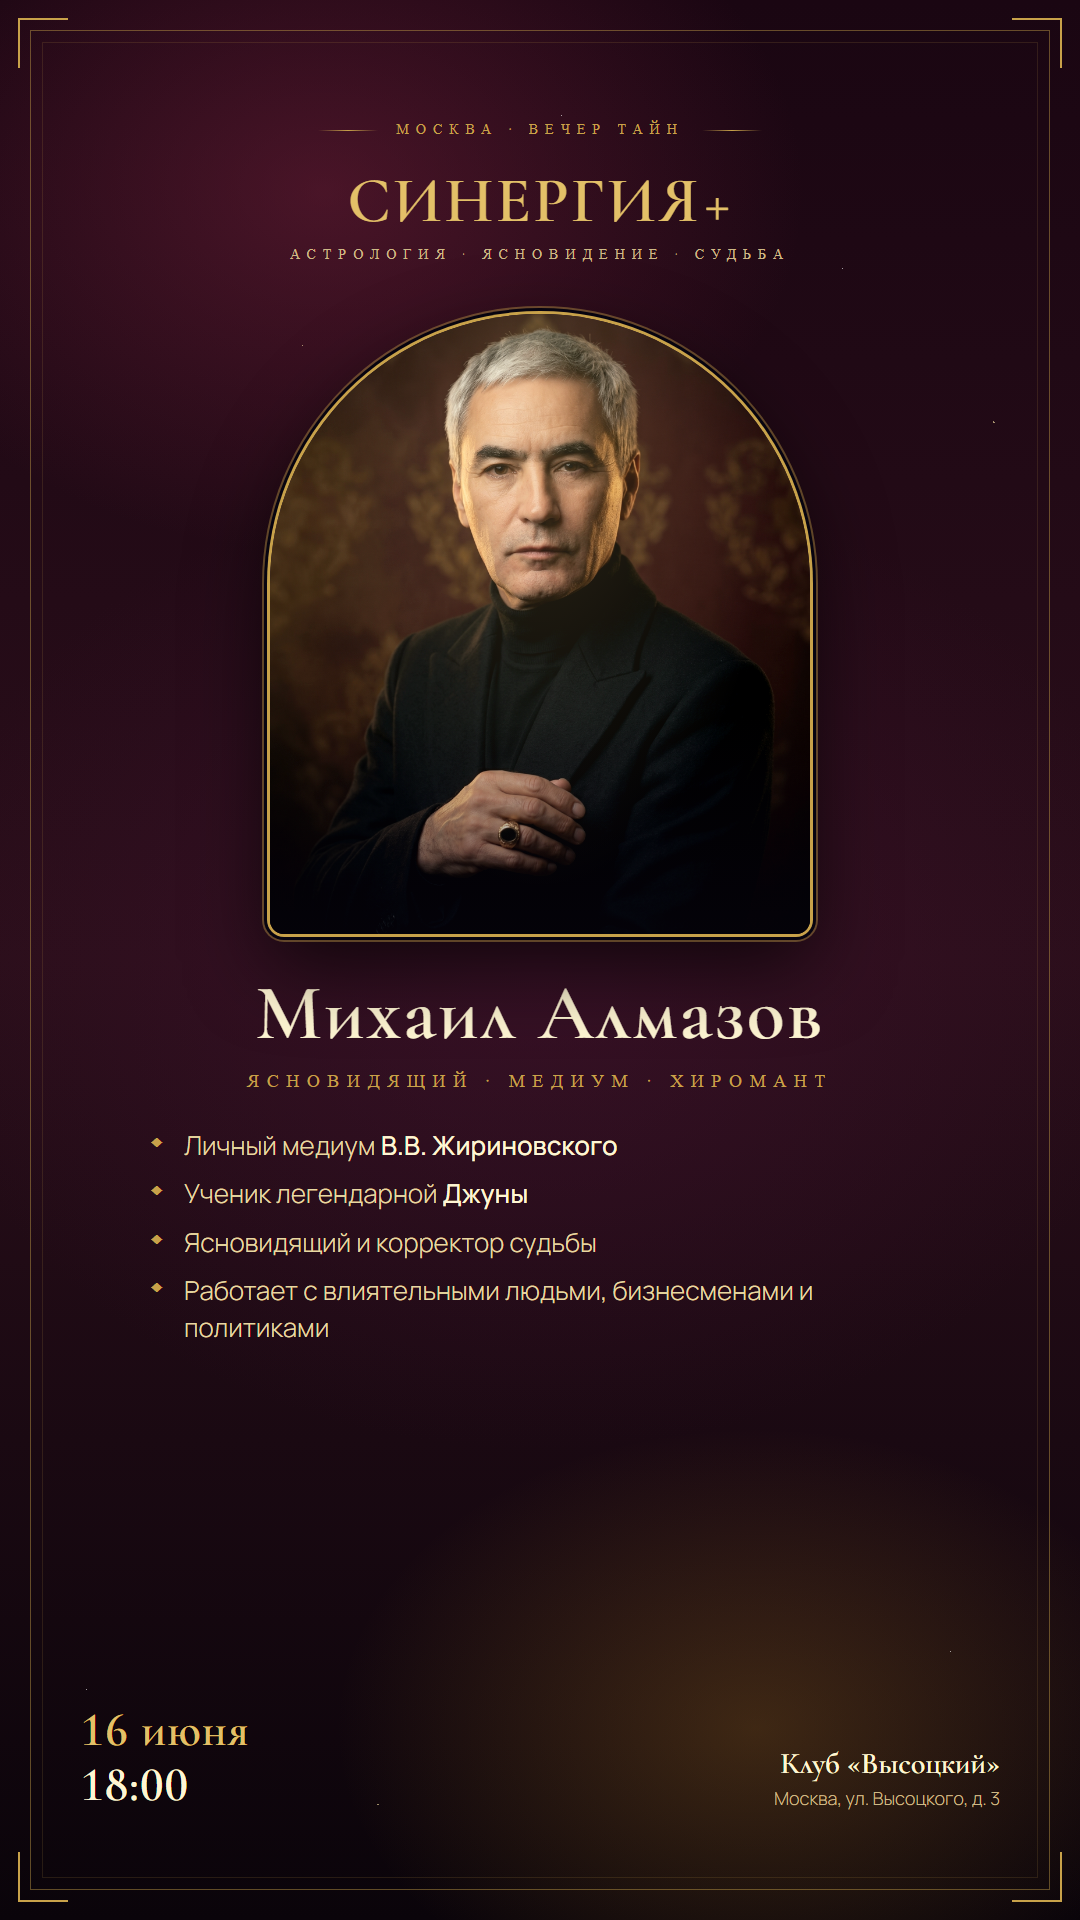
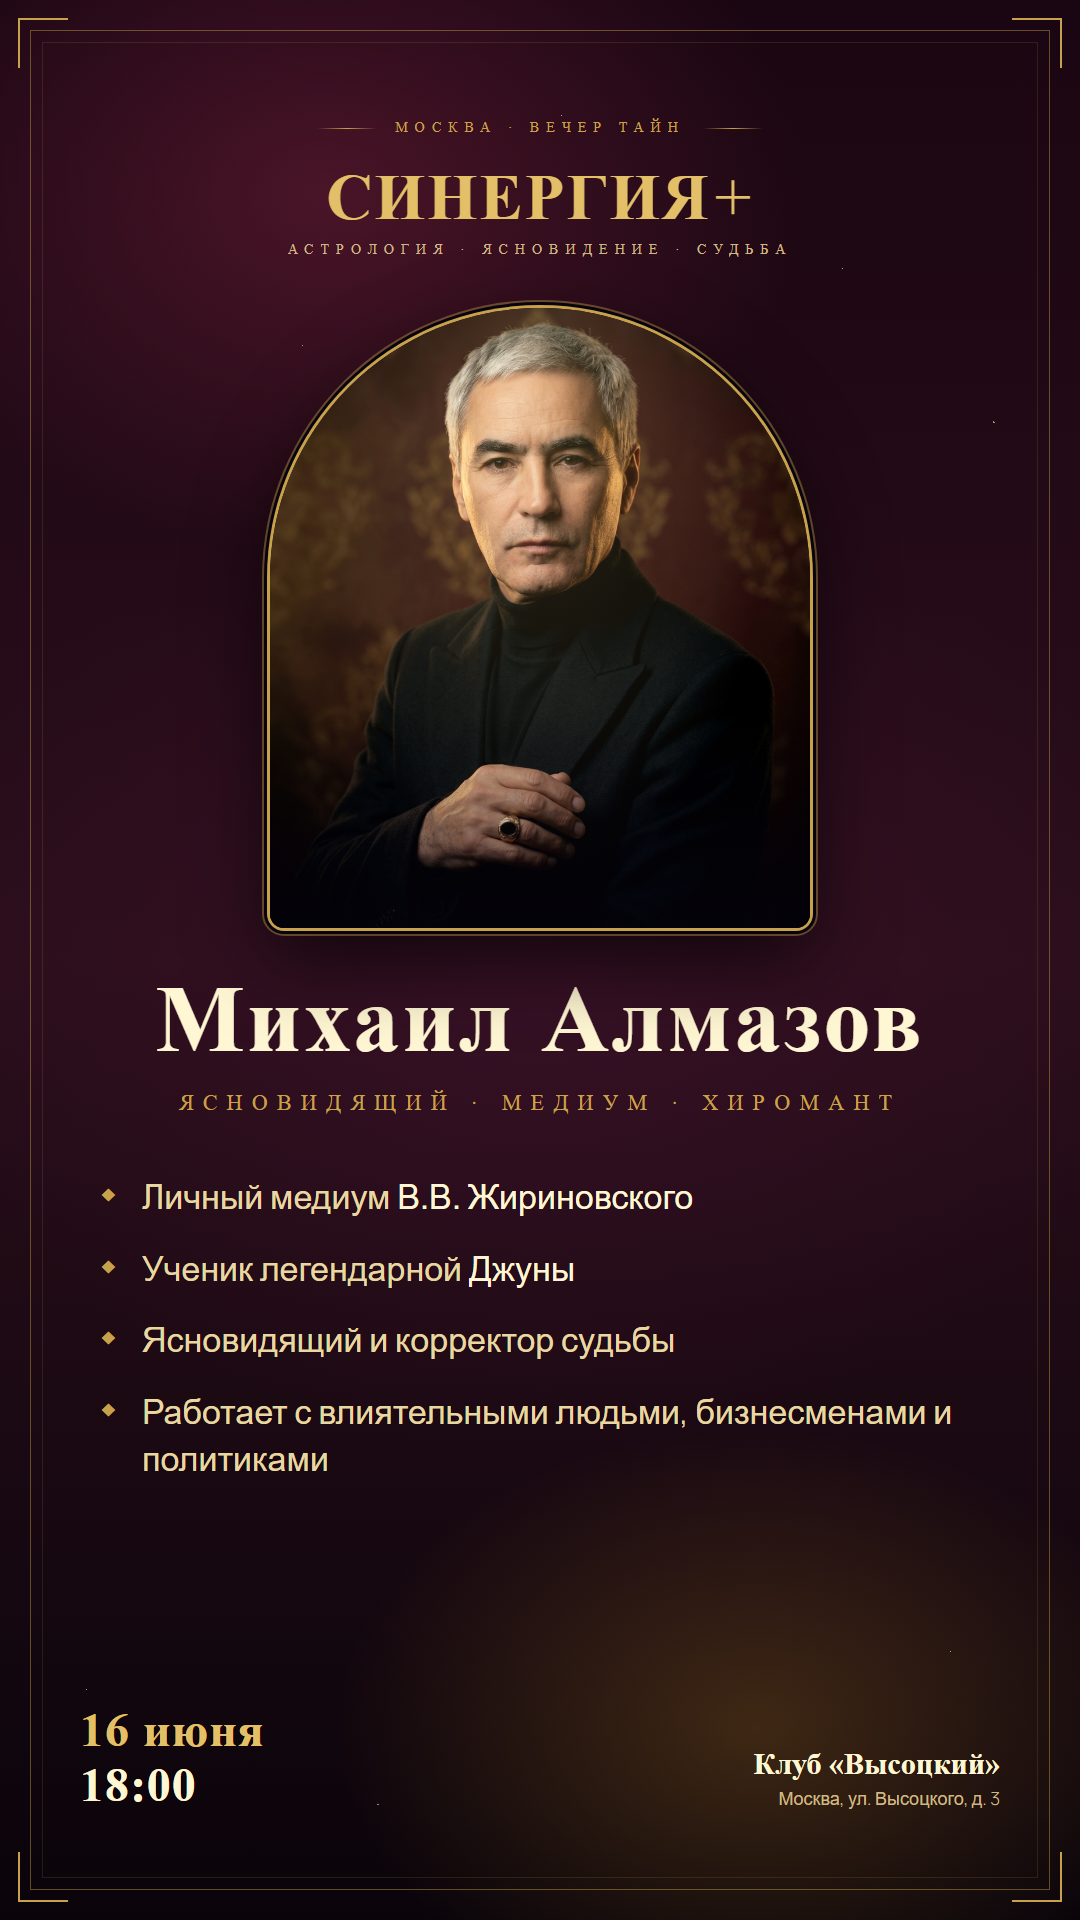
Bigger bio text

diff --git a/maksim.html b/maksim.html
@@ -118,18 +118,18 @@
   }
 
   .name {
-    margin-top:36px;
+    margin-top:40px;
     font-family:'Cormorant Garamond', serif;
-    font-size:68px; font-weight:600; line-height:1;
+    font-size:80px; font-weight:600; line-height:1;
     color:#fff6d3;
     letter-spacing:.03em;
     text-align:center;
   }
 
   .role {
-    margin-top:14px;
+    margin-top:18px;
     font-family:'Cinzel', serif;
-    font-size:18px; font-weight:500;
+    font-size:20px; font-weight:500;
     letter-spacing:.42em;
     text-transform:uppercase;
     color:#c8a24a;
@@ -138,23 +138,23 @@
   }
 
   .bio {
-    margin:26px auto 0;
-    max-width:820px;
+    margin:42px auto 0;
+    max-width:920px;
     list-style:none;
   }
   .bio li {
     position:relative;
-    padding-left:34px;
-    margin-bottom:10px;
+    padding-left:42px;
+    margin-bottom:20px;
     font-family:'Manrope', sans-serif;
-    font-size:24px; line-height:1.4;
+    font-size:30px; line-height:1.35;
     color:#e7d8a3;
     font-weight:300;
   }
   .bio li::before {
     content:"◆";
-    position:absolute; left:0; top:4px;
-    color:#c8a24a; font-size:16px;
+    position:absolute; left:0; top:6px;
+    color:#c8a24a; font-size:18px;
   }
   .bio b { color:#fff6d3; font-weight:500; }
 

diff --git a/mikhail.html b/mikhail.html
@@ -118,18 +118,18 @@
   }
 
   .name {
-    margin-top:40px;
+    margin-top:44px;
     font-family:'Cormorant Garamond', serif;
-    font-size:78px; font-weight:600; line-height:1;
+    font-size:94px; font-weight:600; line-height:1;
     color:#fff6d3;
     letter-spacing:.03em;
     text-align:center;
   }
 
   .role {
-    margin-top:16px;
+    margin-top:20px;
     font-family:'Cinzel', serif;
-    font-size:18px; font-weight:500;
+    font-size:22px; font-weight:500;
     letter-spacing:.42em;
     text-transform:uppercase;
     color:#c8a24a;
@@ -138,23 +138,23 @@
   }
 
   .bio {
-    margin:32px auto 0;
-    max-width:780px;
+    margin:54px auto 0;
+    max-width:880px;
     list-style:none;
   }
   .bio li {
     position:relative;
-    padding-left:34px;
-    margin-bottom:12px;
+    padding-left:42px;
+    margin-bottom:24px;
     font-family:'Manrope', sans-serif;
-    font-size:26px; line-height:1.4;
+    font-size:34px; line-height:1.4;
     color:#e7d8a3;
     font-weight:300;
   }
   .bio li::before {
     content:"◆";
-    position:absolute; left:0; top:4px;
-    color:#c8a24a; font-size:16px;
+    position:absolute; left:0; top:8px;
+    color:#c8a24a; font-size:20px;
   }
   .bio b { color:#fff6d3; font-weight:500; }
 
